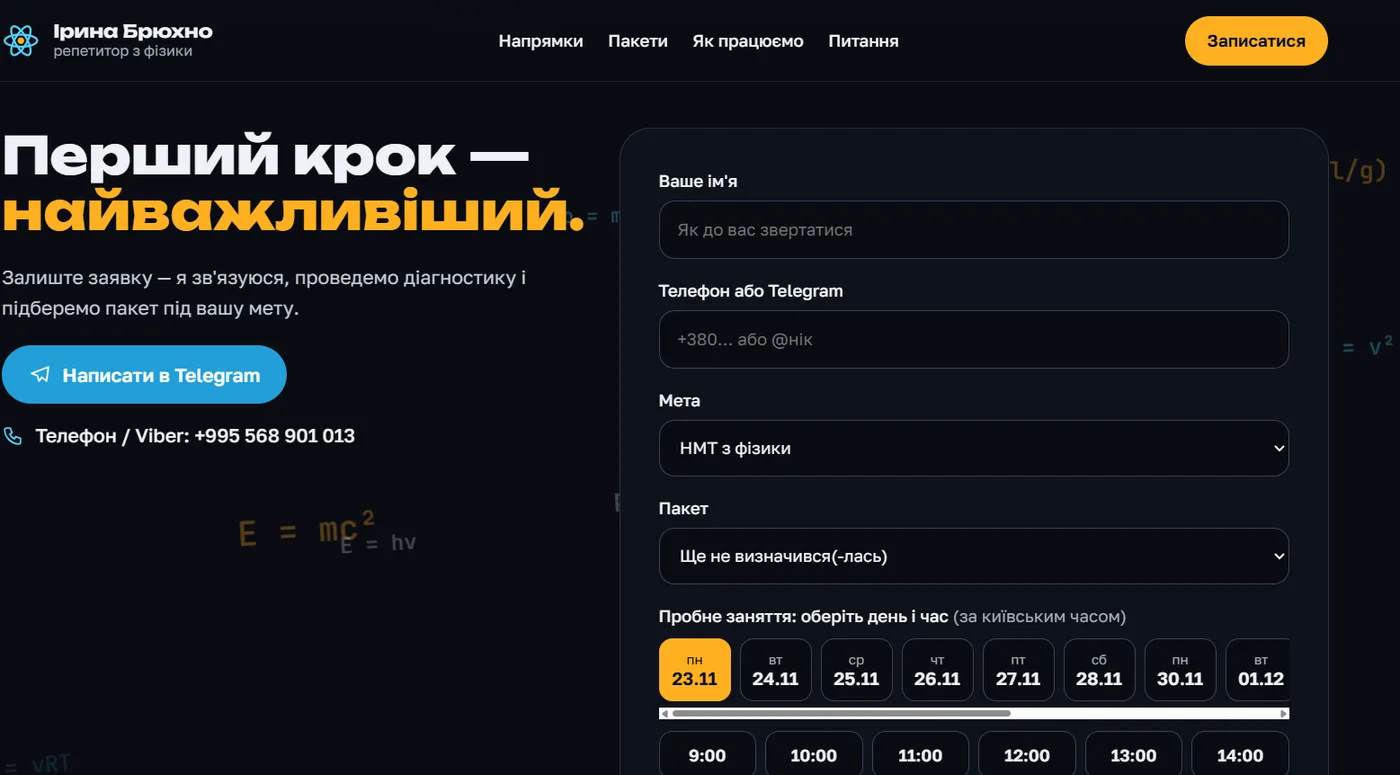
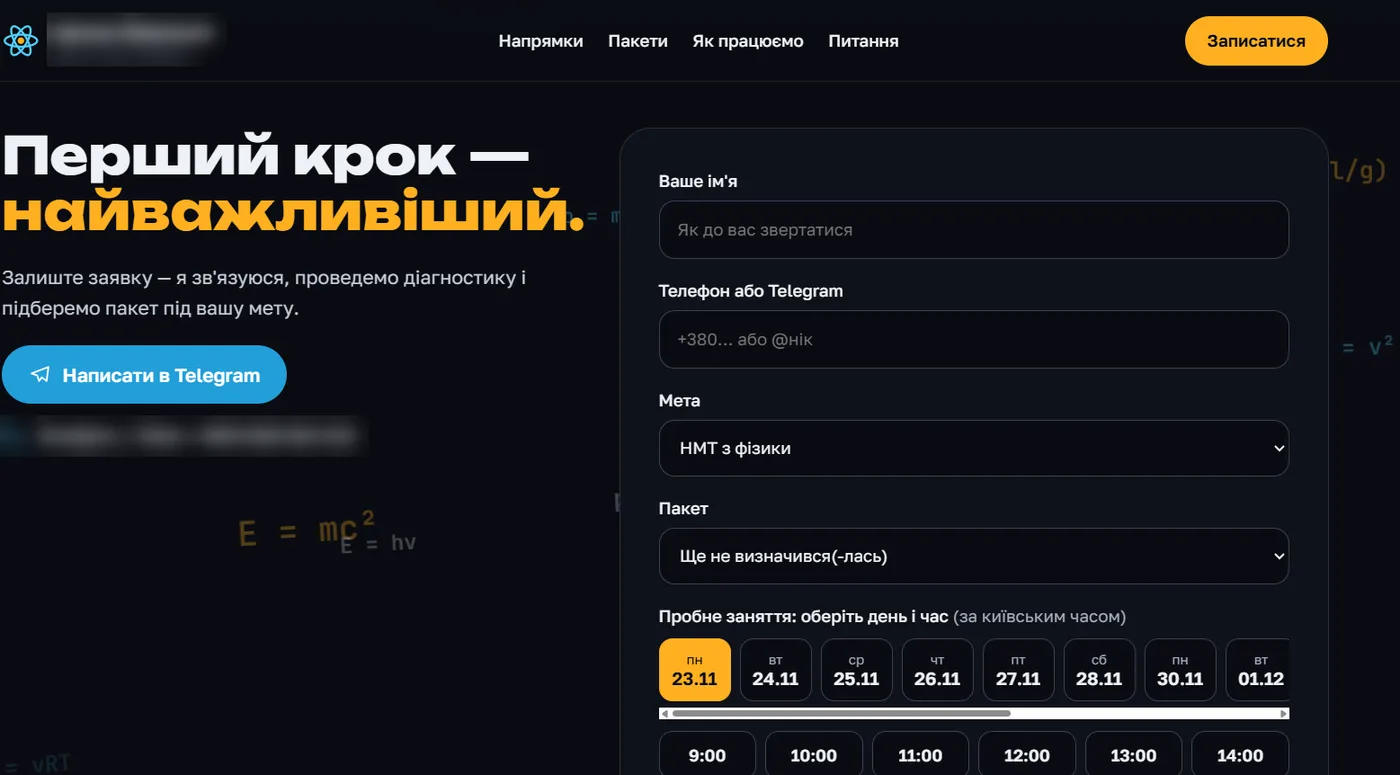
Physics case: remove teacher's personal data (name, phone) from text and screenshots
Claude-Session: https://claude.ai/code/session_01RW8DXGvXebdib7WeGxnmWj

Changed region(s): [[0.0, 0.5265, 0.2764, 0.5884], [0.0307, 0.0, 0.1536, 0.0929]]

diff --git a/index.html b/index.html
@@ -897,20 +897,20 @@ h1,h2{text-wrap:balance}
       </article>
 
       <article class="work">
-        <a class="w-shot browser" href="https://learnphysics.brrayma.workers.dev/" target="_blank" rel="noopener" aria-label="Відкрити сайт репетиторки фізики Ірини Брюхно">
+        <a class="w-shot browser" href="https://learnphysics.brrayma.workers.dev/" target="_blank" rel="noopener" aria-label="Відкрити сайт для викладача фізики">
           <div class="b-bar" aria-hidden="true"><i></i><i></i><i></i><span>learnphysics.brrayma.workers.dev</span></div>
-          <picture id="phShot"><source srcset="cases/physics.webp" type="image/webp"><img src="cases/physics.jpg" alt="Головна сторінка сайту Ірини Брюхно: «Фізика — це не формули. Це те, як працює світ.»" width="1400" height="763" loading="lazy"></picture>
+          <picture id="phShot"><source srcset="cases/physics.webp" type="image/webp"><img src="cases/physics.jpg" alt="Головна сторінка сайту для викладача фізики: «Фізика — це не формули. Це те, як працює світ.»" width="1400" height="763" loading="lazy"></picture>
         </a>
-        <div class="gallery g4" data-target="phShot" role="group" aria-label="Скріни сайту репетиторки фізики">
-          <button type="button" class="g-th" aria-pressed="true" data-src="cases/physics" data-alt="Головна сторінка сайту Ірини Брюхно"><img src="cases/physics.jpg" alt="" width="140" height="76" loading="lazy"><span>Головна</span></button>
+        <div class="gallery g4" data-target="phShot" role="group" aria-label="Скріни сайту для викладача фізики">
+          <button type="button" class="g-th" aria-pressed="true" data-src="cases/physics" data-alt="Головна сторінка сайту для викладача фізики"><img src="cases/physics.jpg" alt="" width="140" height="76" loading="lazy"><span>Головна</span></button>
           <button type="button" class="g-th" aria-pressed="false" data-src="cases/physics-newton" data-alt="Анімація з Ньютоном і яблуком: «Усе почалося з одного «чому?»»"><img src="cases/physics-newton.jpg" alt="" width="140" height="71" loading="lazy"><span>Ньютон</span></button>
           <button type="button" class="g-th" aria-pressed="false" data-src="cases/physics-why" data-alt="Маятник Ньютона і блок «Чому зі мною результат приходить швидше»"><img src="cases/physics-why.jpg" alt="" width="140" height="70" loading="lazy"><span>Переваги</span></button>
           <button type="button" class="g-th" aria-pressed="false" data-src="cases/physics-form" data-alt="Форма запису на пробне заняття з вибором дня й часу"><img src="cases/physics-form.jpg" alt="" width="140" height="78" loading="lazy"><span>Запис</span></button>
         </div>
         <div class="w-body">
           <div class="w-meta"><span class="live">Працює</span><span>Лендинг · клієнт</span></div>
-          <h3>Ірина Брюхно · фізика</h3>
-          <p>Лендинг для репетиторки з 30-річним шкільним досвідом, яка перейшла на онлайн-заняття: напрямки, анімація з Ньютоном, пакети зі знижкою до 20% і форма запису на пробний урок із заявками в Telegram.</p>
+          <h3>Сайт для викладача фізики</h3>
+          <p>Лендинг для викладача фізики, який перейшов на онлайн-заняття: напрямки підготовки, анімація з Ньютоном, пакети зі знижкою до 20% і форма запису на пробний урок із заявками в Telegram.</p>
           <a class="w-link" href="https://learnphysics.brrayma.workers.dev/" target="_blank" rel="noopener">Відкрити сайт →</a>
         </div>
       </article>
